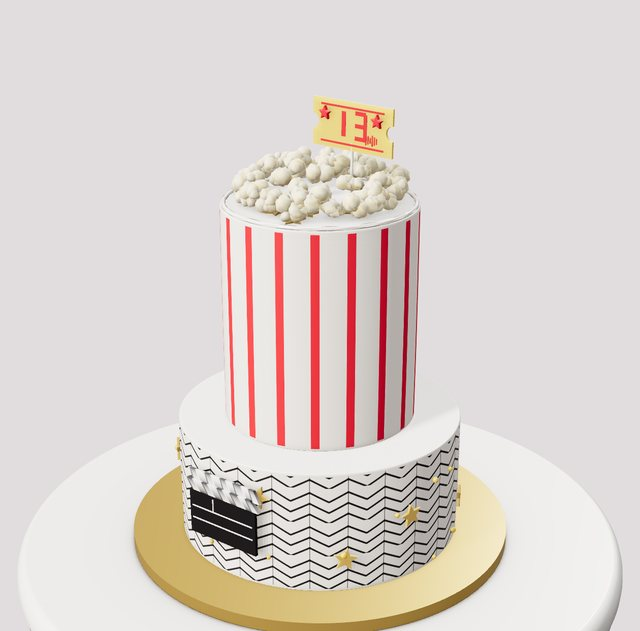
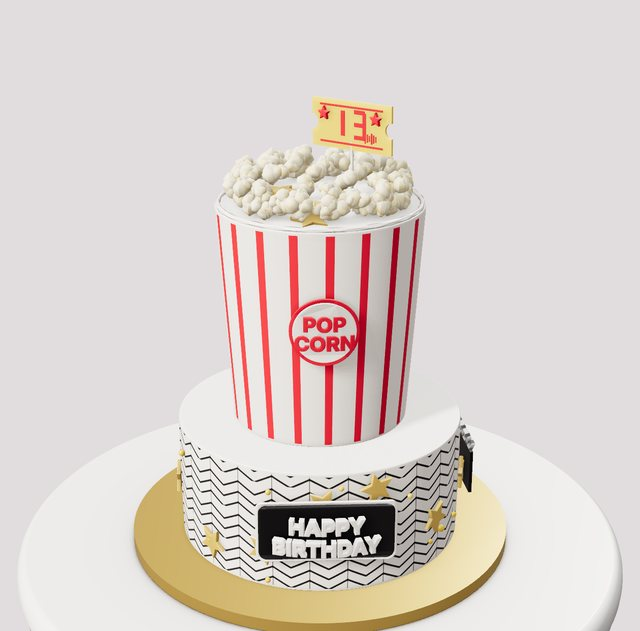
Signature movie night: popcorn bucket taper, POP CORN label, Happy Birthday plaque; new lettered decor
Claude-Session: https://claude.ai/code/session_016sN14hzH19WJ5zrp8o2QGp

Changed region(s): [[0.3125, 0.1506, 0.6875, 0.7227], [0.25, 0.6624, 0.75, 0.9334]]

diff --git a/studio.html b/studio.html
@@ -1132,7 +1132,7 @@ const texFade=(yy,h)=>smooth(.03,.3,yy)*smooth(h-.02,h-.32,yy);
 // ---------------------------------------------------------------- Cake shapes
 // Each shape gives the edge distance at angle a, as a multiple of the tier's radius (half its size).
 // Side profiles: scale a tier's width along its height (0 = bottom, 1 = top). Used for a gathered money bag and puffy pillow cakes.
-const PROFILES={bag:u=>(u=Math.min(1,Math.max(0,u)))<.3?.8+.2*Math.sin(u/.3*PI/2):.3+.7*Math.pow(Math.cos((u-.3)/.7*PI/2),.9),pillow:u=>.9+.1*Math.sin(PI*Math.min(1,Math.max(0,u))),dome:u=>.93+.07*Math.sin(PI*Math.min(1,Math.max(0,u))),half:u=>Math.max(.07,Math.sqrt(Math.max(0,1-Math.pow(Math.min(1,Math.max(0,u)),2.2)))),flare:u=>.62+.5*Math.pow(Math.min(1,Math.max(0,u)),1.4)};
+const PROFILES={bag:u=>(u=Math.min(1,Math.max(0,u)))<.3?.8+.2*Math.sin(u/.3*PI/2):.3+.7*Math.pow(Math.cos((u-.3)/.7*PI/2),.9),pillow:u=>.9+.1*Math.sin(PI*Math.min(1,Math.max(0,u))),dome:u=>.93+.07*Math.sin(PI*Math.min(1,Math.max(0,u))),half:u=>Math.max(.07,Math.sqrt(Math.max(0,1-Math.pow(Math.min(1,Math.max(0,u)),2.2)))),bucket:u=>.86+.14*Math.min(1,Math.max(0,u)),flare:u=>.62+.5*Math.pow(Math.min(1,Math.max(0,u)),1.4)};
 const SHAPES={round:'Round',square:'Square',hexagon:'Hexagon',heart:'Heart',petal:'Petal',oval:'Oval'};
 const HEART_LUT=(()=>{const pts=[];for(let i=0;i<1440;i++){const t=i/1440*2*PI,hx=16*Math.sin(t)**3,hy=13*Math.cos(t)-5*Math.cos(2*t)-2*Math.cos(3*t)-Math.cos(4*t),X=hx,Z=-(hy+1.5);pts.push([Math.atan2(Z,X),Math.hypot(X,Z)/16])}pts.sort((a,b)=>a[0]-b[0]);
  const N=720,L=new Float32Array(N);for(let i=0;i<N;i++){const a=-PI+i/N*2*PI;let j=pts.findIndex(p=>p[0]>=a);if(j<=0)j=j<0?0:1;const p0=pts[(j-1+pts.length)%pts.length],p1=pts[j%pts.length],da=(p1[0]-p0[0])||1e-6;L[i]=p0[1]+(p1[1]-p0[1])*Math.min(1,Math.max(0,(a-p0[0])/da))}return L})();
@@ -1560,6 +1560,16 @@ function tasselParts(q,c){const b=new T.SphereGeometry(.16,16,12);b.translate(0,
 DECOR.tassel={label:'Gold Tassels',layouts:['band'],layout:'band',count:4,max:8,color:'#d4ae5a',colors:['#d4ae5a','#c9ccd2','#fbf7f1'],sp:1,roll:0,sink:0,embed:-.05,make:tasselParts};
 DECOR_ICONS.tassel=di('<circle cx="20" cy="10" r="4" fill="#d4ae5a"/><path d="M16 14h8l3 18H13z" fill="#d4ae5a"/>');
 {const c=DECOR_CATS.find(x=>x.key==='signature');c.items.push('tassel')}
+// ---- lettered face pieces: popcorn label and birthday plaque ----
+function sgText(str,h,cx,cy,depth){const g=mg(NUM_FONT.generateShapes(str,h).map(s=>flatShape(s,depth,0)));g.computeBoundingBox();const b=g.boundingBox;g.translate(cx-(b.min.x+b.max.x)/2,0,-cy-(b.min.z+b.max.z)/2);return g}
+function rrectShape(w,h,r){const s=new T.Shape();s.moveTo(-w/2+r,-h/2);s.lineTo(w/2-r,-h/2);s.quadraticCurveTo(w/2,-h/2,w/2,-h/2+r);s.lineTo(w/2,h/2-r);s.quadraticCurveTo(w/2,h/2,w/2-r,h/2);s.lineTo(-w/2+r,h/2);s.quadraticCurveTo(-w/2,h/2,-w/2,h/2-r);s.lineTo(-w/2,-h/2+r);s.quadraticCurveTo(-w/2,-h/2,-w/2+r,-h/2);return s}
+function popLabelParts(q,c,mode,dc){const R=sgR(dc),B=g=>sgBend(g,R);return[[dmat(c,{r:.4,cc:.4}),B(mg([sgOval(0,0,.62,.62,.03),sgText('POP',.26,0,.16,.07),sgText('CORN',.26,0,-.2,.07)]))],[dmat('#fbf7f1',{r:.4,cc:.3}),B(sgOval(0,0,.55,.55,.05))]]}
+function plaqueParts(q,c,mode,dc){const R=sgR(dc),B=g=>sgBend(g,R),t1=(dc&&dc.l1)||'HAPPY',t2=(dc&&dc.l2)||'BIRTHDAY';return[[dmat('#fbf7f1',{r:.4,cc:.3}),B(mg([flatShape(rrectShape(1.9,.86,.12),.03,0),sgText(t1,.2,0,.16,.08),sgText(t2,.2,0,-.16,.08)]))],[dmat(c,{r:.35,cc:.5}),B(flatShape(rrectShape(1.8,.76,.1),.05,0))]]}
+DECOR.poplabel={label:'Popcorn Label',layouts:['band'],layout:'band',count:1,max:1,color:'#d62839',colors:['#d62839','#2f6fd0','#1d1b1f'],sp:3,side:'face',roll:0,sink:0,embed:-.02,make:popLabelParts};
+DECOR.plaque={label:'Happy Birthday Plaque',layouts:['band'],layout:'band',count:1,max:1,color:'#1d1b1f',colors:['#1d1b1f','#d62839','#2f6fd0','#d4ae5a'],sp:3,side:'face',roll:0,sink:0,embed:-.02,make:plaqueParts};
+DECOR_ICONS.poplabel=di('<circle cx="20" cy="20" r="13" fill="#fff" stroke="#d62839" stroke-width="3"/><text x="20" y="24" font-size="9" text-anchor="middle" fill="#d62839" font-weight="900">POP</text>');
+DECOR_ICONS.plaque=di('<rect x="4" y="12" width="32" height="16" rx="3" fill="#1d1b1f" stroke="#fff"/><text x="20" y="23" font-size="7" text-anchor="middle" fill="#fff" font-weight="900">HAPPY</text>');
+{const c=DECOR_CATS.find(x=>x.key==='signature');c.items.push('poplabel','plaque')}
 
 // ---------- Signature cakes: Sprinkle Me Silly's real cakes, rebuilt in the Studio ----------
 const SIG='Signature Cakes';
@@ -1611,8 +1621,8 @@ THEMES.unshift(
  {key:'sig_blocks',name:'Building Block Number',tag:SIG,blurb:'A sunny yellow number 6 with a blue window, a mosaic wall of toy bricks around the side, rainbow sprinkles and bricks on top.',d:{cakeType:'number',number:{text:'6',height:13,layers:2,cake:'vanilla',cream:'#f6c919',style:'frosted',wall:['#e8475f','#2f6fd0','#f2c230','#5cc06c','#2f6fd0','#e8475f','#2a7a3a'],wallH:.95,holeFill:'#2f6fd0'},board:'white',boardColor:'#2f3f6b',topper:'none',tiers:[
   newTier(8,4,{decor:[DC('bricks','cluster',18,{size:250,mix:['#e8475f','#2f6fd0','#5cc06c']}),DC('sprinkles','cluster',260,{mix:['#e8475f','#2f6fd0','#5cc06c','#f28a3a','#fbf7f1']})]})]}},
  {key:'sig_movie',name:'Movie Night Popcorn',tag:SIG,blurb:'A red and white striped popcorn tier overflowing with popcorn and a "13" Admit One ticket, over a black and white chevron clapperboard tier with stars.',d:{board:'gold',topper:'none',tiers:[
-  newTier(11,4.8,{color:'#fbf7f1',finish:'fondant',top:'none',bottom:'none',stencil:{pattern:'chevron',color:'#1d1b1f',size:1.4,height:4.6},decor:[DC('clapper','band',1,{size:210,rot:95}),DC('stars','scatter',12,{mix:['#f3a6c0','#7fd3cc','#f2c230'],size:150}),DC('dragees','scatter',20,{color:'#f2c230',size:140})]}),
-  newTier(7.4,8.4,{color:'#fbf7f1',finish:'fondant',stencil:{pattern:'stripes',color:'#d62839',size:1.3,height:8.2},top:'rope',pipe:'#fbf7f1',bottom:'none',decor:[DC('popcorn','cluster',70,{color:'#f8efd4',size:260}),DC('ticket','cluster',1,{color:'#f6cf5a',size:300,center:true,face:95}),DC('stars','cluster',6,{mix:['#f3a6c0','#7fd3cc','#f2c230'],size:150})]})]}},
+  newTier(11,4.8,{color:'#fbf7f1',finish:'fondant',top:'none',bottom:'none',stencil:{pattern:'chevron',color:'#1d1b1f',size:1.4,height:4.6},decor:[DC('plaque','band',1,{color:'#1d1b1f',size:270,R:5.5,rot:55,y:.3}),DC('clapper','band',1,{size:210,rot:-40}),DC('stars','scatter',14,{mix:['#f38ab0','#5fc8d8','#f2c230'],size:210}),DC('dragees','scatter',20,{color:'#f2c230',size:140})]}),
+  newTier(7.8,8.4,{color:'#fbf7f1',finish:'fondant',prof:'bucket',stencil:{pattern:'stripes',color:'#d62839',size:1.3,height:8.2},top:'rope',pipe:'#fbf7f1',bottom:'none',decor:[DC('poplabel','band',1,{color:'#d62839',size:200,R:3.7,rot:55,y:.6}),DC('popcorn','cluster',120,{color:'#f8efd4',size:260}),DC('ticket','cluster',1,{color:'#f6cf5a',size:300,center:true,face:95}),DC('stars','cluster',5,{mix:['#f38ab0','#5fc8d8','#f2c230'],size:240})]})]}},
  {key:'sig_crawfish',name:'Crawfish Boil Pot',tag:SIG,blurb:'A brushed silver stock pot cake with a tilted lid and loop handles, spilling over with crawfish and corn, with potatoes and corn on the board.',d:{board:'white',boardColor:'#ece5d3',topper:'none',tiers:[
   newTier(8,7,{color:'#c4c8ce',finish:'fondant',texture:'brushed',top:'rope',pipe:'#aeb2b8',bottom:'rope',bottomColor:'#aeb2b8',decor:[DC('pothandle','band',2,{color:'#c9ccd2',size:160,y:2,rot:95}),DC('potlid2','cluster',1,{color:'#c9ccd2',size:300,center:true}),DC('crawfish','crown',9,{color:'#d2381e',size:300}),DC('corncob','crown',3,{color:'#eeb31c',size:250,rot:60}),DC('crawfish','cascade',4,{color:'#d2381e',rot:100,size:260}),DC('corncob','cluster',3,{color:'#eeb31c',size:260,where:'board'}),DC('potato','cluster',4,{color:'#d9a441',size:260,where:'board'})]})]}},
  {key:'sig_bee',name:'Bumble Bee Garden',tag:SIG,blurb:'A smooth yellow dome bee head with big eyes and a smile, a fuzzy black piped collar, looped antennae and a garden of piped grass and sugar flowers.',d:{board:'white',boardColor:'#c9d96a',topper:'none',tiers:[

diff --git a/tools/signature-decor.js b/tools/signature-decor.js
@@ -228,6 +228,16 @@ function tasselParts(q,c){const b=new T.SphereGeometry(.16,16,12);b.translate(0,
 DECOR.tassel={label:'Gold Tassels',layouts:['band'],layout:'band',count:4,max:8,color:'#d4ae5a',colors:['#d4ae5a','#c9ccd2','#fbf7f1'],sp:1,roll:0,sink:0,embed:-.05,make:tasselParts};
 DECOR_ICONS.tassel=di('<circle cx="20" cy="10" r="4" fill="#d4ae5a"/><path d="M16 14h8l3 18H13z" fill="#d4ae5a"/>');
 {const c=DECOR_CATS.find(x=>x.key==='signature');c.items.push('tassel')}
+// ---- lettered face pieces: popcorn label and birthday plaque ----
+function sgText(str,h,cx,cy,depth){const g=mg(NUM_FONT.generateShapes(str,h).map(s=>flatShape(s,depth,0)));g.computeBoundingBox();const b=g.boundingBox;g.translate(cx-(b.min.x+b.max.x)/2,0,-cy-(b.min.z+b.max.z)/2);return g}
+function rrectShape(w,h,r){const s=new T.Shape();s.moveTo(-w/2+r,-h/2);s.lineTo(w/2-r,-h/2);s.quadraticCurveTo(w/2,-h/2,w/2,-h/2+r);s.lineTo(w/2,h/2-r);s.quadraticCurveTo(w/2,h/2,w/2-r,h/2);s.lineTo(-w/2+r,h/2);s.quadraticCurveTo(-w/2,h/2,-w/2,h/2-r);s.lineTo(-w/2,-h/2+r);s.quadraticCurveTo(-w/2,-h/2,-w/2+r,-h/2);return s}
+function popLabelParts(q,c,mode,dc){const R=sgR(dc),B=g=>sgBend(g,R);return[[dmat(c,{r:.4,cc:.4}),B(mg([sgOval(0,0,.62,.62,.03),sgText('POP',.26,0,.16,.07),sgText('CORN',.26,0,-.2,.07)]))],[dmat('#fbf7f1',{r:.4,cc:.3}),B(sgOval(0,0,.55,.55,.05))]]}
+function plaqueParts(q,c,mode,dc){const R=sgR(dc),B=g=>sgBend(g,R),t1=(dc&&dc.l1)||'HAPPY',t2=(dc&&dc.l2)||'BIRTHDAY';return[[dmat('#fbf7f1',{r:.4,cc:.3}),B(mg([flatShape(rrectShape(1.9,.86,.12),.03,0),sgText(t1,.2,0,.16,.08),sgText(t2,.2,0,-.16,.08)]))],[dmat(c,{r:.35,cc:.5}),B(flatShape(rrectShape(1.8,.76,.1),.05,0))]]}
+DECOR.poplabel={label:'Popcorn Label',layouts:['band'],layout:'band',count:1,max:1,color:'#d62839',colors:['#d62839','#2f6fd0','#1d1b1f'],sp:3,side:'face',roll:0,sink:0,embed:-.02,make:popLabelParts};
+DECOR.plaque={label:'Happy Birthday Plaque',layouts:['band'],layout:'band',count:1,max:1,color:'#1d1b1f',colors:['#1d1b1f','#d62839','#2f6fd0','#d4ae5a'],sp:3,side:'face',roll:0,sink:0,embed:-.02,make:plaqueParts};
+DECOR_ICONS.poplabel=di('<circle cx="20" cy="20" r="13" fill="#fff" stroke="#d62839" stroke-width="3"/><text x="20" y="24" font-size="9" text-anchor="middle" fill="#d62839" font-weight="900">POP</text>');
+DECOR_ICONS.plaque=di('<rect x="4" y="12" width="32" height="16" rx="3" fill="#1d1b1f" stroke="#fff"/><text x="20" y="23" font-size="7" text-anchor="middle" fill="#fff" font-weight="900">HAPPY</text>');
+{const c=DECOR_CATS.find(x=>x.key==='signature');c.items.push('poplabel','plaque')}
 
 // ---------- Signature cakes: Sprinkle Me Silly's real cakes, rebuilt in the Studio ----------
 const SIG='Signature Cakes';
@@ -279,8 +289,8 @@ THEMES.unshift(
  {key:'sig_blocks',name:'Building Block Number',tag:SIG,blurb:'A sunny yellow number 6 with a blue window, a mosaic wall of toy bricks around the side, rainbow sprinkles and bricks on top.',d:{cakeType:'number',number:{text:'6',height:13,layers:2,cake:'vanilla',cream:'#f6c919',style:'frosted',wall:['#e8475f','#2f6fd0','#f2c230','#5cc06c','#2f6fd0','#e8475f','#2a7a3a'],wallH:.95,holeFill:'#2f6fd0'},board:'white',boardColor:'#2f3f6b',topper:'none',tiers:[
   newTier(8,4,{decor:[DC('bricks','cluster',18,{size:250,mix:['#e8475f','#2f6fd0','#5cc06c']}),DC('sprinkles','cluster',260,{mix:['#e8475f','#2f6fd0','#5cc06c','#f28a3a','#fbf7f1']})]})]}},
  {key:'sig_movie',name:'Movie Night Popcorn',tag:SIG,blurb:'A red and white striped popcorn tier overflowing with popcorn and a "13" Admit One ticket, over a black and white chevron clapperboard tier with stars.',d:{board:'gold',topper:'none',tiers:[
-  newTier(11,4.8,{color:'#fbf7f1',finish:'fondant',top:'none',bottom:'none',stencil:{pattern:'chevron',color:'#1d1b1f',size:1.4,height:4.6},decor:[DC('clapper','band',1,{size:210,rot:95}),DC('stars','scatter',12,{mix:['#f3a6c0','#7fd3cc','#f2c230'],size:150}),DC('dragees','scatter',20,{color:'#f2c230',size:140})]}),
-  newTier(7.4,8.4,{color:'#fbf7f1',finish:'fondant',stencil:{pattern:'stripes',color:'#d62839',size:1.3,height:8.2},top:'rope',pipe:'#fbf7f1',bottom:'none',decor:[DC('popcorn','cluster',70,{color:'#f8efd4',size:260}),DC('ticket','cluster',1,{color:'#f6cf5a',size:300,center:true,face:95}),DC('stars','cluster',6,{mix:['#f3a6c0','#7fd3cc','#f2c230'],size:150})]})]}},
+  newTier(11,4.8,{color:'#fbf7f1',finish:'fondant',top:'none',bottom:'none',stencil:{pattern:'chevron',color:'#1d1b1f',size:1.4,height:4.6},decor:[DC('plaque','band',1,{color:'#1d1b1f',size:270,R:5.5,rot:55,y:.3}),DC('clapper','band',1,{size:210,rot:-40}),DC('stars','scatter',14,{mix:['#f38ab0','#5fc8d8','#f2c230'],size:210}),DC('dragees','scatter',20,{color:'#f2c230',size:140})]}),
+  newTier(7.8,8.4,{color:'#fbf7f1',finish:'fondant',prof:'bucket',stencil:{pattern:'stripes',color:'#d62839',size:1.3,height:8.2},top:'rope',pipe:'#fbf7f1',bottom:'none',decor:[DC('poplabel','band',1,{color:'#d62839',size:200,R:3.7,rot:55,y:.6}),DC('popcorn','cluster',120,{color:'#f8efd4',size:260}),DC('ticket','cluster',1,{color:'#f6cf5a',size:300,center:true,face:95}),DC('stars','cluster',5,{mix:['#f38ab0','#5fc8d8','#f2c230'],size:240})]})]}},
  {key:'sig_crawfish',name:'Crawfish Boil Pot',tag:SIG,blurb:'A brushed silver stock pot cake with a tilted lid and loop handles, spilling over with crawfish and corn, with potatoes and corn on the board.',d:{board:'white',boardColor:'#ece5d3',topper:'none',tiers:[
   newTier(8,7,{color:'#c4c8ce',finish:'fondant',texture:'brushed',top:'rope',pipe:'#aeb2b8',bottom:'rope',bottomColor:'#aeb2b8',decor:[DC('pothandle','band',2,{color:'#c9ccd2',size:160,y:2,rot:95}),DC('potlid2','cluster',1,{color:'#c9ccd2',size:300,center:true}),DC('crawfish','crown',9,{color:'#d2381e',size:300}),DC('corncob','crown',3,{color:'#eeb31c',size:250,rot:60}),DC('crawfish','cascade',4,{color:'#d2381e',rot:100,size:260}),DC('corncob','cluster',3,{color:'#eeb31c',size:260,where:'board'}),DC('potato','cluster',4,{color:'#d9a441',size:260,where:'board'})]})]}},
  {key:'sig_bee',name:'Bumble Bee Garden',tag:SIG,blurb:'A smooth yellow dome bee head with big eyes and a smile, a fuzzy black piped collar, looped antennae and a garden of piped grass and sugar flowers.',d:{board:'white',boardColor:'#c9d96a',topper:'none',tiers:[

diff --git a/tools/sig-themes.js b/tools/sig-themes.js
@@ -48,8 +48,8 @@ THEMES.unshift(
  {key:'sig_blocks',name:'Building Block Number',tag:SIG,blurb:'A sunny yellow number 6 with a blue window, a mosaic wall of toy bricks around the side, rainbow sprinkles and bricks on top.',d:{cakeType:'number',number:{text:'6',height:13,layers:2,cake:'vanilla',cream:'#f6c919',style:'frosted',wall:['#e8475f','#2f6fd0','#f2c230','#5cc06c','#2f6fd0','#e8475f','#2a7a3a'],wallH:.95,holeFill:'#2f6fd0'},board:'white',boardColor:'#2f3f6b',topper:'none',tiers:[
   newTier(8,4,{decor:[DC('bricks','cluster',18,{size:250,mix:['#e8475f','#2f6fd0','#5cc06c']}),DC('sprinkles','cluster',260,{mix:['#e8475f','#2f6fd0','#5cc06c','#f28a3a','#fbf7f1']})]})]}},
  {key:'sig_movie',name:'Movie Night Popcorn',tag:SIG,blurb:'A red and white striped popcorn tier overflowing with popcorn and a "13" Admit One ticket, over a black and white chevron clapperboard tier with stars.',d:{board:'gold',topper:'none',tiers:[
-  newTier(11,4.8,{color:'#fbf7f1',finish:'fondant',top:'none',bottom:'none',stencil:{pattern:'chevron',color:'#1d1b1f',size:1.4,height:4.6},decor:[DC('clapper','band',1,{size:210,rot:95}),DC('stars','scatter',12,{mix:['#f3a6c0','#7fd3cc','#f2c230'],size:150}),DC('dragees','scatter',20,{color:'#f2c230',size:140})]}),
-  newTier(7.4,8.4,{color:'#fbf7f1',finish:'fondant',stencil:{pattern:'stripes',color:'#d62839',size:1.3,height:8.2},top:'rope',pipe:'#fbf7f1',bottom:'none',decor:[DC('popcorn','cluster',70,{color:'#f8efd4',size:260}),DC('ticket','cluster',1,{color:'#f6cf5a',size:300,center:true,face:95}),DC('stars','cluster',6,{mix:['#f3a6c0','#7fd3cc','#f2c230'],size:150})]})]}},
+  newTier(11,4.8,{color:'#fbf7f1',finish:'fondant',top:'none',bottom:'none',stencil:{pattern:'chevron',color:'#1d1b1f',size:1.4,height:4.6},decor:[DC('plaque','band',1,{color:'#1d1b1f',size:270,R:5.5,rot:55,y:.3}),DC('clapper','band',1,{size:210,rot:-40}),DC('stars','scatter',14,{mix:['#f38ab0','#5fc8d8','#f2c230'],size:210}),DC('dragees','scatter',20,{color:'#f2c230',size:140})]}),
+  newTier(7.8,8.4,{color:'#fbf7f1',finish:'fondant',prof:'bucket',stencil:{pattern:'stripes',color:'#d62839',size:1.3,height:8.2},top:'rope',pipe:'#fbf7f1',bottom:'none',decor:[DC('poplabel','band',1,{color:'#d62839',size:200,R:3.7,rot:55,y:.6}),DC('popcorn','cluster',120,{color:'#f8efd4',size:260}),DC('ticket','cluster',1,{color:'#f6cf5a',size:300,center:true,face:95}),DC('stars','cluster',5,{mix:['#f38ab0','#5fc8d8','#f2c230'],size:240})]})]}},
  {key:'sig_crawfish',name:'Crawfish Boil Pot',tag:SIG,blurb:'A brushed silver stock pot cake with a tilted lid and loop handles, spilling over with crawfish and corn, with potatoes and corn on the board.',d:{board:'white',boardColor:'#ece5d3',topper:'none',tiers:[
   newTier(8,7,{color:'#c4c8ce',finish:'fondant',texture:'brushed',top:'rope',pipe:'#aeb2b8',bottom:'rope',bottomColor:'#aeb2b8',decor:[DC('pothandle','band',2,{color:'#c9ccd2',size:160,y:2,rot:95}),DC('potlid2','cluster',1,{color:'#c9ccd2',size:300,center:true}),DC('crawfish','crown',9,{color:'#d2381e',size:300}),DC('corncob','crown',3,{color:'#eeb31c',size:250,rot:60}),DC('crawfish','cascade',4,{color:'#d2381e',rot:100,size:260}),DC('corncob','cluster',3,{color:'#eeb31c',size:260,where:'board'}),DC('potato','cluster',4,{color:'#d9a441',size:260,where:'board'})]})]}},
  {key:'sig_bee',name:'Bumble Bee Garden',tag:SIG,blurb:'A smooth yellow dome bee head with big eyes and a smile, a fuzzy black piped collar, looped antennae and a garden of piped grass and sugar flowers.',d:{board:'white',boardColor:'#c9d96a',topper:'none',tiers:[

diff --git a/tools/sig-extra.js b/tools/sig-extra.js
@@ -53,3 +53,13 @@ function tasselParts(q,c){const b=new T.SphereGeometry(.16,16,12);b.translate(0,
 DECOR.tassel={label:'Gold Tassels',layouts:['band'],layout:'band',count:4,max:8,color:'#d4ae5a',colors:['#d4ae5a','#c9ccd2','#fbf7f1'],sp:1,roll:0,sink:0,embed:-.05,make:tasselParts};
 DECOR_ICONS.tassel=di('<circle cx="20" cy="10" r="4" fill="#d4ae5a"/><path d="M16 14h8l3 18H13z" fill="#d4ae5a"/>');
 {const c=DECOR_CATS.find(x=>x.key==='signature');c.items.push('tassel')}
+// ---- lettered face pieces: popcorn label and birthday plaque ----
+function sgText(str,h,cx,cy,depth){const g=mg(NUM_FONT.generateShapes(str,h).map(s=>flatShape(s,depth,0)));g.computeBoundingBox();const b=g.boundingBox;g.translate(cx-(b.min.x+b.max.x)/2,0,-cy-(b.min.z+b.max.z)/2);return g}
+function rrectShape(w,h,r){const s=new T.Shape();s.moveTo(-w/2+r,-h/2);s.lineTo(w/2-r,-h/2);s.quadraticCurveTo(w/2,-h/2,w/2,-h/2+r);s.lineTo(w/2,h/2-r);s.quadraticCurveTo(w/2,h/2,w/2-r,h/2);s.lineTo(-w/2+r,h/2);s.quadraticCurveTo(-w/2,h/2,-w/2,h/2-r);s.lineTo(-w/2,-h/2+r);s.quadraticCurveTo(-w/2,-h/2,-w/2+r,-h/2);return s}
+function popLabelParts(q,c,mode,dc){const R=sgR(dc),B=g=>sgBend(g,R);return[[dmat(c,{r:.4,cc:.4}),B(mg([sgOval(0,0,.62,.62,.03),sgText('POP',.26,0,.16,.07),sgText('CORN',.26,0,-.2,.07)]))],[dmat('#fbf7f1',{r:.4,cc:.3}),B(sgOval(0,0,.55,.55,.05))]]}
+function plaqueParts(q,c,mode,dc){const R=sgR(dc),B=g=>sgBend(g,R),t1=(dc&&dc.l1)||'HAPPY',t2=(dc&&dc.l2)||'BIRTHDAY';return[[dmat('#fbf7f1',{r:.4,cc:.3}),B(mg([flatShape(rrectShape(1.9,.86,.12),.03,0),sgText(t1,.2,0,.16,.08),sgText(t2,.2,0,-.16,.08)]))],[dmat(c,{r:.35,cc:.5}),B(flatShape(rrectShape(1.8,.76,.1),.05,0))]]}
+DECOR.poplabel={label:'Popcorn Label',layouts:['band'],layout:'band',count:1,max:1,color:'#d62839',colors:['#d62839','#2f6fd0','#1d1b1f'],sp:3,side:'face',roll:0,sink:0,embed:-.02,make:popLabelParts};
+DECOR.plaque={label:'Happy Birthday Plaque',layouts:['band'],layout:'band',count:1,max:1,color:'#1d1b1f',colors:['#1d1b1f','#d62839','#2f6fd0','#d4ae5a'],sp:3,side:'face',roll:0,sink:0,embed:-.02,make:plaqueParts};
+DECOR_ICONS.poplabel=di('<circle cx="20" cy="20" r="13" fill="#fff" stroke="#d62839" stroke-width="3"/><text x="20" y="24" font-size="9" text-anchor="middle" fill="#d62839" font-weight="900">POP</text>');
+DECOR_ICONS.plaque=di('<rect x="4" y="12" width="32" height="16" rx="3" fill="#1d1b1f" stroke="#fff"/><text x="20" y="23" font-size="7" text-anchor="middle" fill="#fff" font-weight="900">HAPPY</text>');
+{const c=DECOR_CATS.find(x=>x.key==='signature');c.items.push('poplabel','plaque')}
